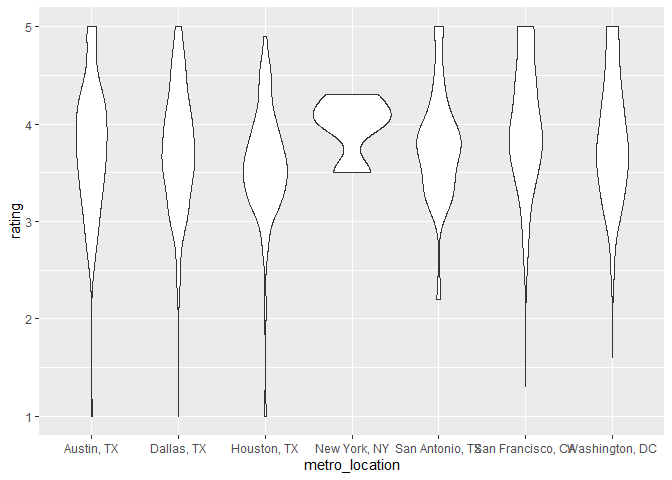
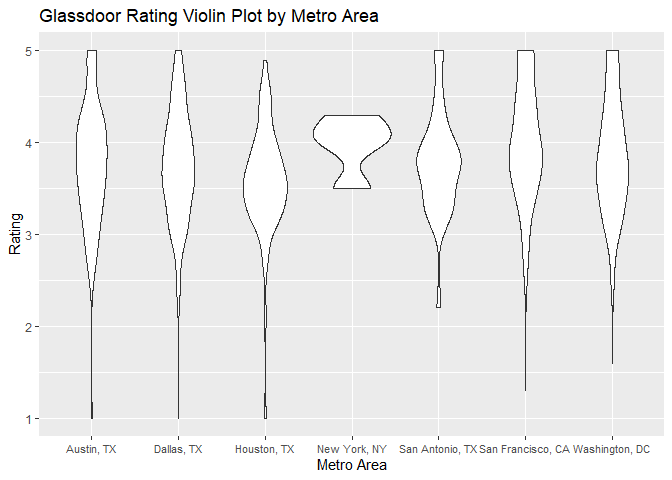
modify and add to rmd for some of the final plots

diff --git a/EDA/job_category_and_rating.md b/EDA/job_category_and_rating.md
@@ -36,10 +36,15 @@ ds_jobs <- read.csv('Data Cleaning/ds_jobs.csv')
 
 ``` r
 companies <- ds_jobs %>%
+  #filter out na job categories from all jobs
   filter(is.na(job_category) == F) %>% 
+  #group by company
   group_by(company) %>% 
+  #get the count of each company
   summarize(count = n()) %>% 
+  #sort descending
   arrange(-count) %>% 
+  #view the largest ones
   filter(count >= 30)
 ```
 
@@ -60,6 +65,7 @@ companies
     ## 6 TEECOM                  30
 
 ``` r
+# filter dataset to only include the top companies and job types that are not na, plot bar chart
 ds_jobs %>% 
   filter(is.na(job_category) == F,
          company %in% companies$company) %>% 
@@ -80,6 +86,7 @@ to subset our data to only include data science specific jobs.
 # List Counts of Data Science Jobs
 
 ``` r
+# filter by only data science relevant jobs (as discussed in team meeting), generate table of counts
 data_jobs <- ds_jobs %>% 
   group_by(job_category) %>% 
   summarize(count = n()) %>% 
@@ -114,6 +121,7 @@ other analyst - though to a much lesser extent.
 ## Top Companies in Terms of Data Science Job Postings
 
 ``` r
+# generate counts of data science jobs for each top company (also listing industry and rating)
 data_companies <- ds_jobs %>%
   filter(job_category %in% data_jobs$job_category) %>% 
   group_by(company, industry, rating) %>% 
@@ -149,6 +157,9 @@ three times above the 20 job cutoff.
 ## Job Category Breakdown of Top Data Science Companies
 
 ``` r
+#filter by ds jobs and top companies
+#graph the count of each job type displaying the contribution of each to the total amount of jobs posted from company
+
 ds_jobs %>% 
   filter(job_category %in% data_jobs$job_category,
          company %in% data_companies$company) %>% 
@@ -179,6 +190,8 @@ roles available.
 ## Metro Area Breakdown of Top Data Science Companies
 
 ``` r
+#filter by ds jobs and top companies
+#graph the count of each location displaying the contribution of each to the total amount of jobs posted from company
 ds_jobs %>% 
   filter(job_category %in% data_jobs$job_category,
          company %in% data_companies$company) %>% 
@@ -213,6 +226,7 @@ versatility.
 ## Most Popular Industries in terms of Data Science Job Postings
 
 ``` r
+# find the counts of data science job postings within each industry
 data_industries <- ds_jobs %>%
   filter(job_category %in% data_jobs$job_category) %>% 
   group_by(industry) %>% 
@@ -246,6 +260,7 @@ rest of the top 5: Biotech/Pharmaceuticals, Finance, Aerospace/Defense.
 ## Metro Area Breakdown of Job Categories
 
 ``` r
+# find the counts of data science job postings within each metro area
 ds_jobs %>% 
   filter(job_category %in% data_jobs$job_category) %>% 
   group_by(metro_location) %>% 
@@ -266,6 +281,7 @@ ds_jobs %>%
     ## 7 Washington, DC      725
 
 ``` r
+#plot the each job category as the proportion of the total amount of jobs in each city (only focusing on ds jobs)
 ds_jobs %>% 
   filter(job_category %in% data_jobs$job_category) %>% 
   group_by(metro_location, job_category) %>% 
@@ -285,6 +301,7 @@ ds_jobs %>%
 ![](job_category_and_rating_files/figure-gfm/unnamed-chunk-11-1.png)<!-- -->
 
 ``` r
+# 
 ds_jobs %>% 
   filter(job_category %in% data_jobs$job_category) %>% 
   group_by(metro_location, job_category) %>% 
@@ -325,7 +342,11 @@ ds_jobs %>%
   select(company, metro_location, industry, rating) %>% 
   unique() %>% 
   ggplot(aes(x = metro_location, y = rating)) + 
-  geom_violin()
+  geom_violin() +
+  labs(title = 'Glassdoor Rating Violin Plot by Metro Area',
+       x = 'Metro Area',
+       y = 'Rating') +
+  theme(axis.text.x = element_text(size = 8.5))
 ```
 
     ## Warning: Removed 152 rows containing non-finite values (stat_ydensity).
@@ -408,7 +429,7 @@ ds_jobs %>%
   unique() %>% 
   ggplot(aes(x = rating)) + 
   geom_density(aes(fill = industry), alpha = .5) +
-  labs(title = 'Glassdoor Rating Density Plot by Industry',
+  labs(title = 'Glassdoor Rating Density Plot of Top Data Science Industries',
        x = 'Rating',
        y = 'Density') +
   scale_fill_viridis(discrete = TRUE, name = 'Industry')
@@ -438,3 +459,51 @@ exception of a high concentration just above 3.5 for Aerospace and
 Defense. Information Technology has the highest rating peak among the
 five largest industries, while Biotech and Pharmaceuticals has the
 highest number of 5 rated companies.
+
+``` r
+ds_jobs %>% 
+  filter(job_category %in% data_jobs$job_category,
+         company %in% c('Addepar', 'Booz Allen Hamilton Inc.', 'CyberCoders', 'Genetech', 'Kingdom Associates',
+                        'Management Decisions, Inc.', 'National Debt Relief', 'TEECOM')) %>% 
+  select(company, industry, rating) %>% 
+  unique() %>% 
+  arrange(company) %>% 
+  ggplot(aes(x = company, y = rating)) + 
+  geom_col() +
+  theme(axis.text.x = element_text(angle = 90)) +
+  labs(title = 'Glassdoor Ratings of Top Data Science Companies',
+       x = 'Company',
+       y = 'Rating')
+```
+
+![](job_category_and_rating_files/figure-gfm/unnamed-chunk-17-1.png)<!-- -->
+
+``` r
+ds_jobs %>% 
+  filter(job_category %in% data_jobs$job_category,
+         !is.na(industry),
+         !is.na(rating)) %>% 
+  select(company, industry, rating) %>% 
+  unique() %>% 
+  group_by(industry) %>% 
+  summarize(avg_rating = mean(rating),
+            count = n()) %>% 
+  arrange(-avg_rating)
+```
+
+    ## `summarise()` ungrouping output (override with `.groups` argument)
+
+    ## # A tibble: 23 x 3
+    ##    industry                         avg_rating count
+    ##    <chr>                                 <dbl> <int>
+    ##  1 Agriculture & Forestry                 5        1
+    ##  2 Real Estate                            4.2      4
+    ##  3 Education                              4.06    26
+    ##  4 Arts, Entertainment & Recreation       3.95     2
+    ##  5 Information Technology                 3.94   340
+    ##  6 Consumer Services                      3.94     5
+    ##  7 Telecommunications                     3.84     5
+    ##  8 Aerospace & Defense                    3.84    44
+    ##  9 Business Services                      3.81   165
+    ## 10 Government                             3.80    41
+    ## # ... with 13 more rows
